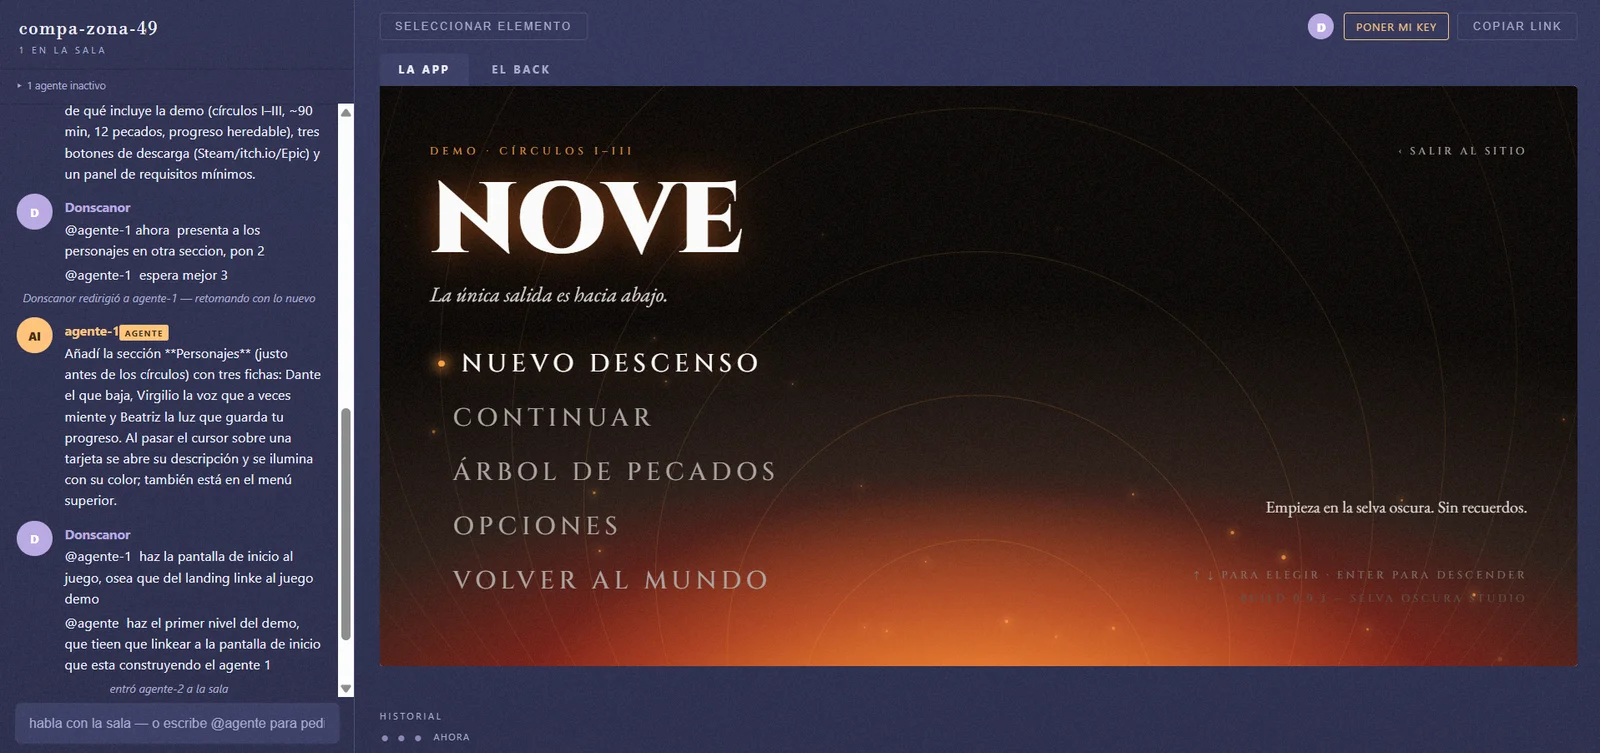
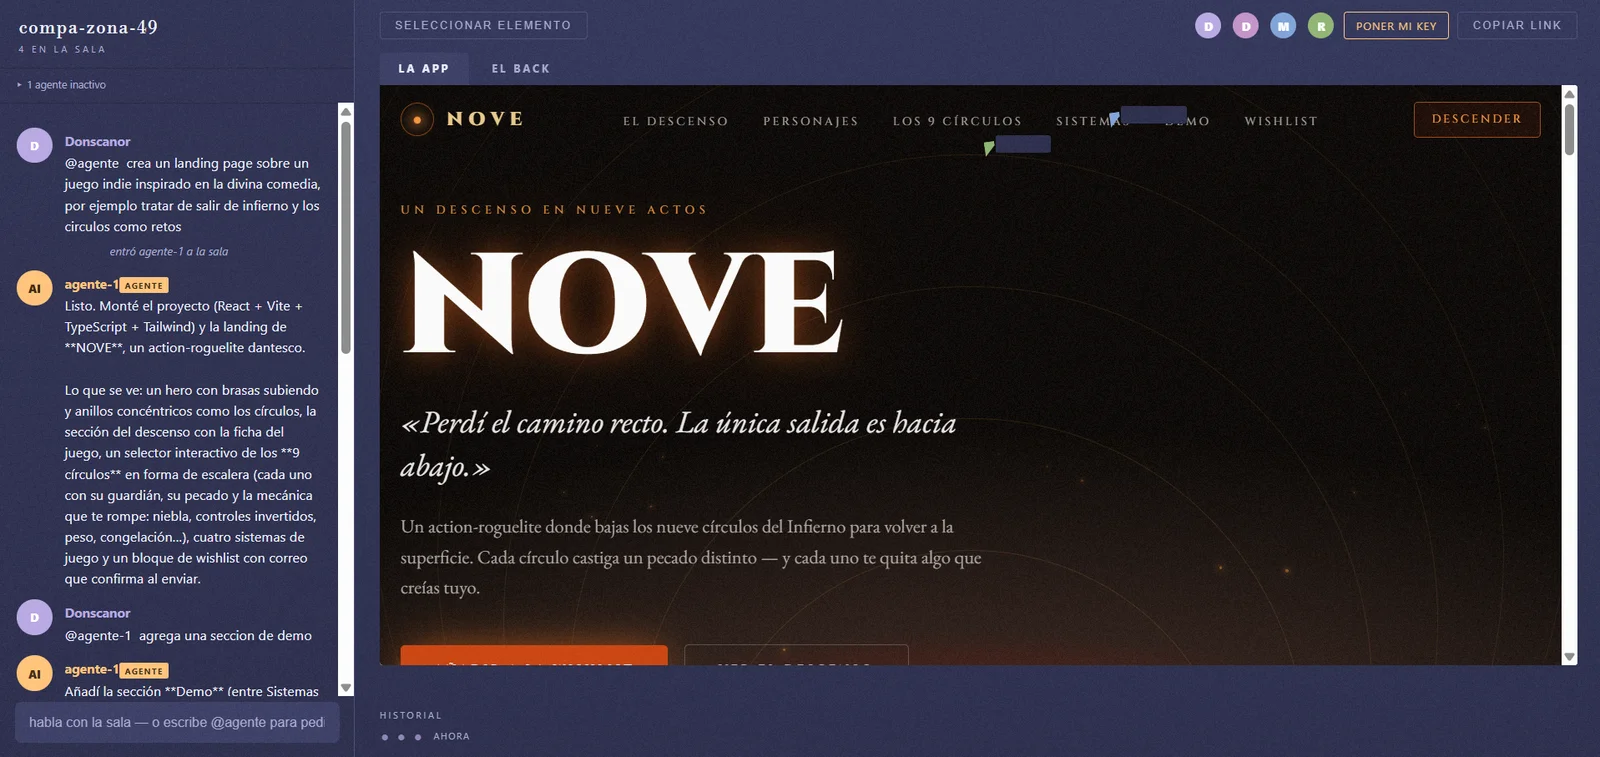
La captura muestra la sala llena, y "teammates" en vez de "friends"
La captura anterior decia "1 en la sala": prometia multijugador y
mostraba a una persona con un asistente, que es exactamente lo que
alguien senalaria en el primer comentario. Esta tiene 4 conectados, los
avatares arriba y dos cursores de gente distinta sobre el preview.

Y "friends" era mas estrecho de lo que el producto quiere decir: son
amistades, no gente con la que trabajas. "teammates" cubre las dos, y
deja el README a tono con el landing, que ya usaba "companeros".

diff --git a/README.md b/README.md
@@ -1,10 +1,10 @@
 # Multi
 
-A live room where you, your friends and several agents build the same app. Open source.
+A live room where you, your teammates and several agents build the same app. Open source.
 
-![A room in Multi: the chat on the left, the app running live on the right](docs/sala.webp)
+![A room in Multi: four people connected, the chat on the left, the app running live on the right with everyone's cursors on it](docs/sala.webp)
 
-Someone asks in plain language, the agent answers in terms of what changed, and the app on the right updates without a refresh. Everyone in the room sees it at the same time.
+Four people in that room. Someone asks in plain language, the agent answers in terms of what changed, and the app on the right updates without a refresh. Everyone sees it at the same time, cursors included.
 
 [![License: MIT](https://img.shields.io/badge/license-MIT-blue.svg)](LICENSE)
 ![Node 22+](https://img.shields.io/badge/node-22%2B-green.svg)
